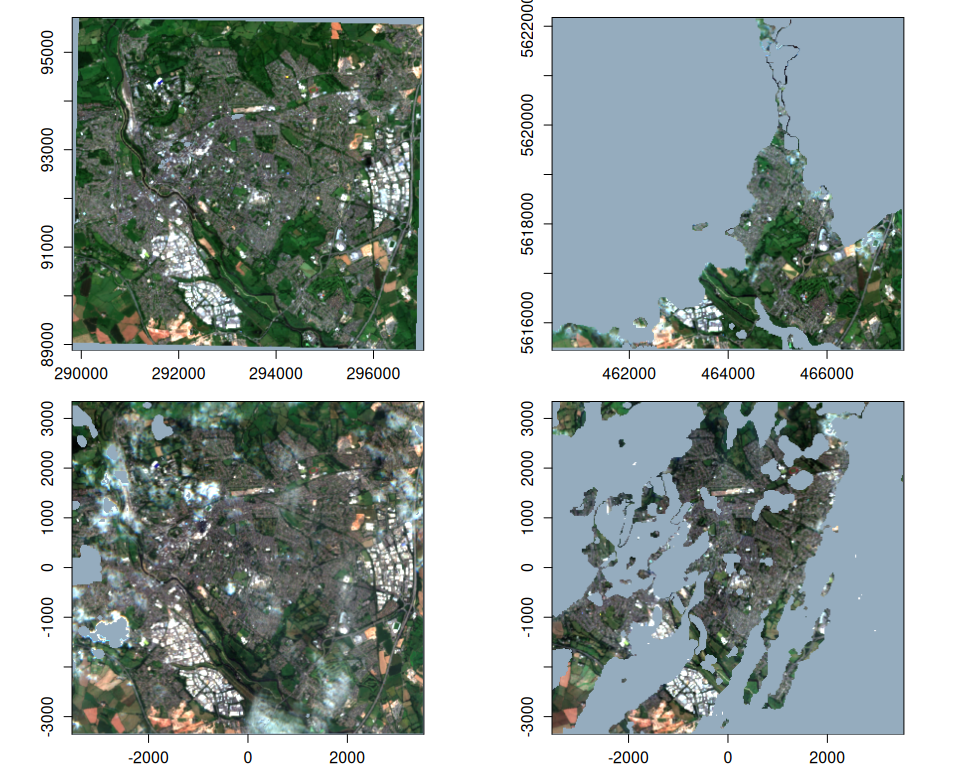
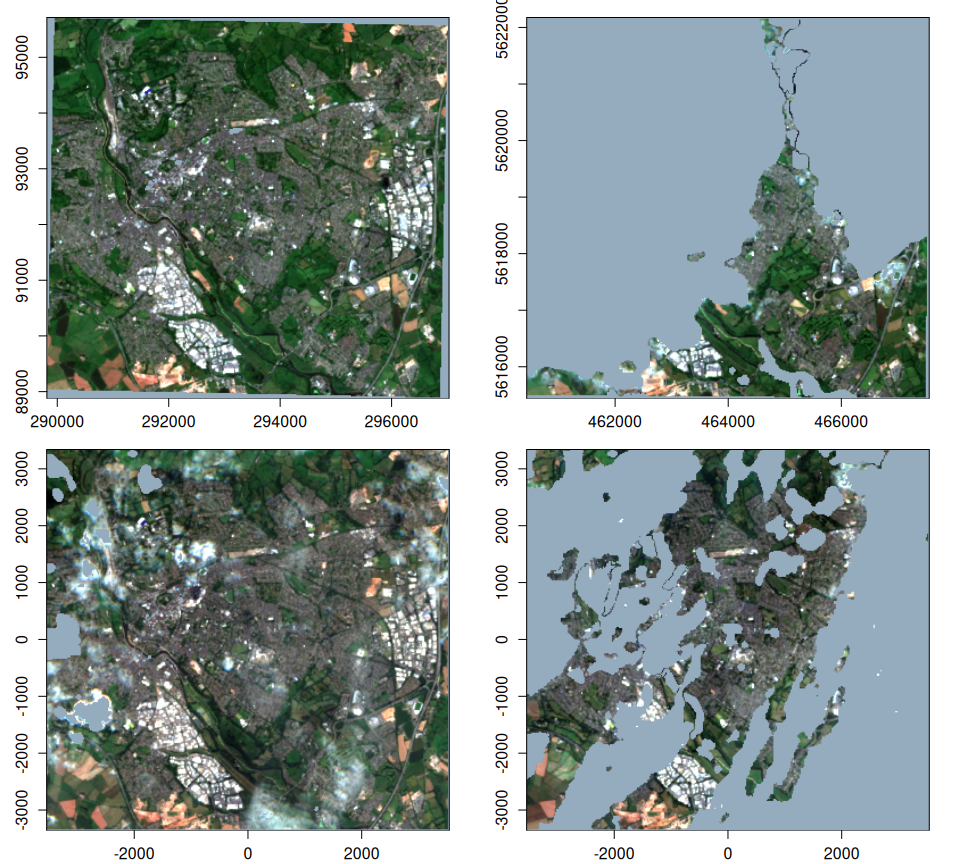
readne update

diff --git a/README.md b/README.md
@@ -100,7 +100,7 @@ library(vrtility)
 #>   vrtility::set_gdal_cache_max()
 
 #  Set up asynchronous workers to parallelise vrt_collect and vrt_set_maskfun
-mirai::daemons(6)
+mirai::daemons(10)
 
 bbox <- gdalraster::bbox_from_wkt(
   wkt = "POINT (144.3 -7.6)",
@@ -139,7 +139,7 @@ system.time({
     )
 })
 #>    user  system elapsed 
-#>   3.935   0.555  37.719
+#>   3.816   0.472  29.855
 
 withr::with_par(list(mfrow = c(2, 1)), {
   purrr::walk2(
@@ -149,7 +149,8 @@ withr::with_par(list(mfrow = c(2, 1)), {
       plot_raster_src(
         median_composite,
         .x,
-        rgb_trans = .y
+        rgb_trans = .y,
+        title = "none"
       )
     }
   )
@@ -196,23 +197,25 @@ ex_collect_mask <- vrt_set_maskfun(
   mask_values = c(0, 1, 2, 3, 8, 9, 10, 11),
 )
 
-withr::with_par(
-  list(mfrow = c(2, 2)),
-  {
-    purrr::walk(
-      seq_len(ex_collect$n_items),
-      ~ plot(ex_collect, item = .x, bands = c(3, 2, 1))
-    )
+par(mfrow = c(2, 2))
 
-    purrr::walk(
-      seq_len(ex_collect_mask$n_items),
-      ~ plot(ex_collect_mask, item = .x, bands = c(3, 2, 1))
-    )
-  }
+purrr::walk(
+  seq_len(ex_collect$n_items),
+  ~ plot(ex_collect, item = .x, bands = c(3, 2, 1))
 )
 ```
 
-<img src="man/figures/README-example2-1.png" width="100%" /><img src="man/figures/README-example2-2.png" width="100%" />
+<img src="man/figures/README-example2-1.png" width="100%" />
+
+``` r
+
+purrr::walk(
+  seq_len(ex_collect_mask$n_items),
+  ~ plot(ex_collect_mask, item = .x, bands = c(3, 2, 1))
+)
+```
+
+<img src="man/figures/README-example2-2.png" width="100%" />
 
 ``` r
 
@@ -225,10 +228,13 @@ ex_composite <- vrt_warp(
   te = t_block$bbox,
   tr = c(20, 20)
 ) |>
+  vrt_set_scale(scale_value = 0.0001, offset = -0.1, band_idx = 1:4) |>
   multiband_reduce(reduce_fun = medoid())
 
-
-plot_raster_src(ex_composite, bands = c(3, 2, 1))
+purrr::walk(
+  1:4,
+  ~ plot_raster_src(ex_composite, bands = .x, minmax_pct_cut = c(2, 98))
+)
 ```
 
 <img src="man/figures/README-example2-3.png" width="100%" />
